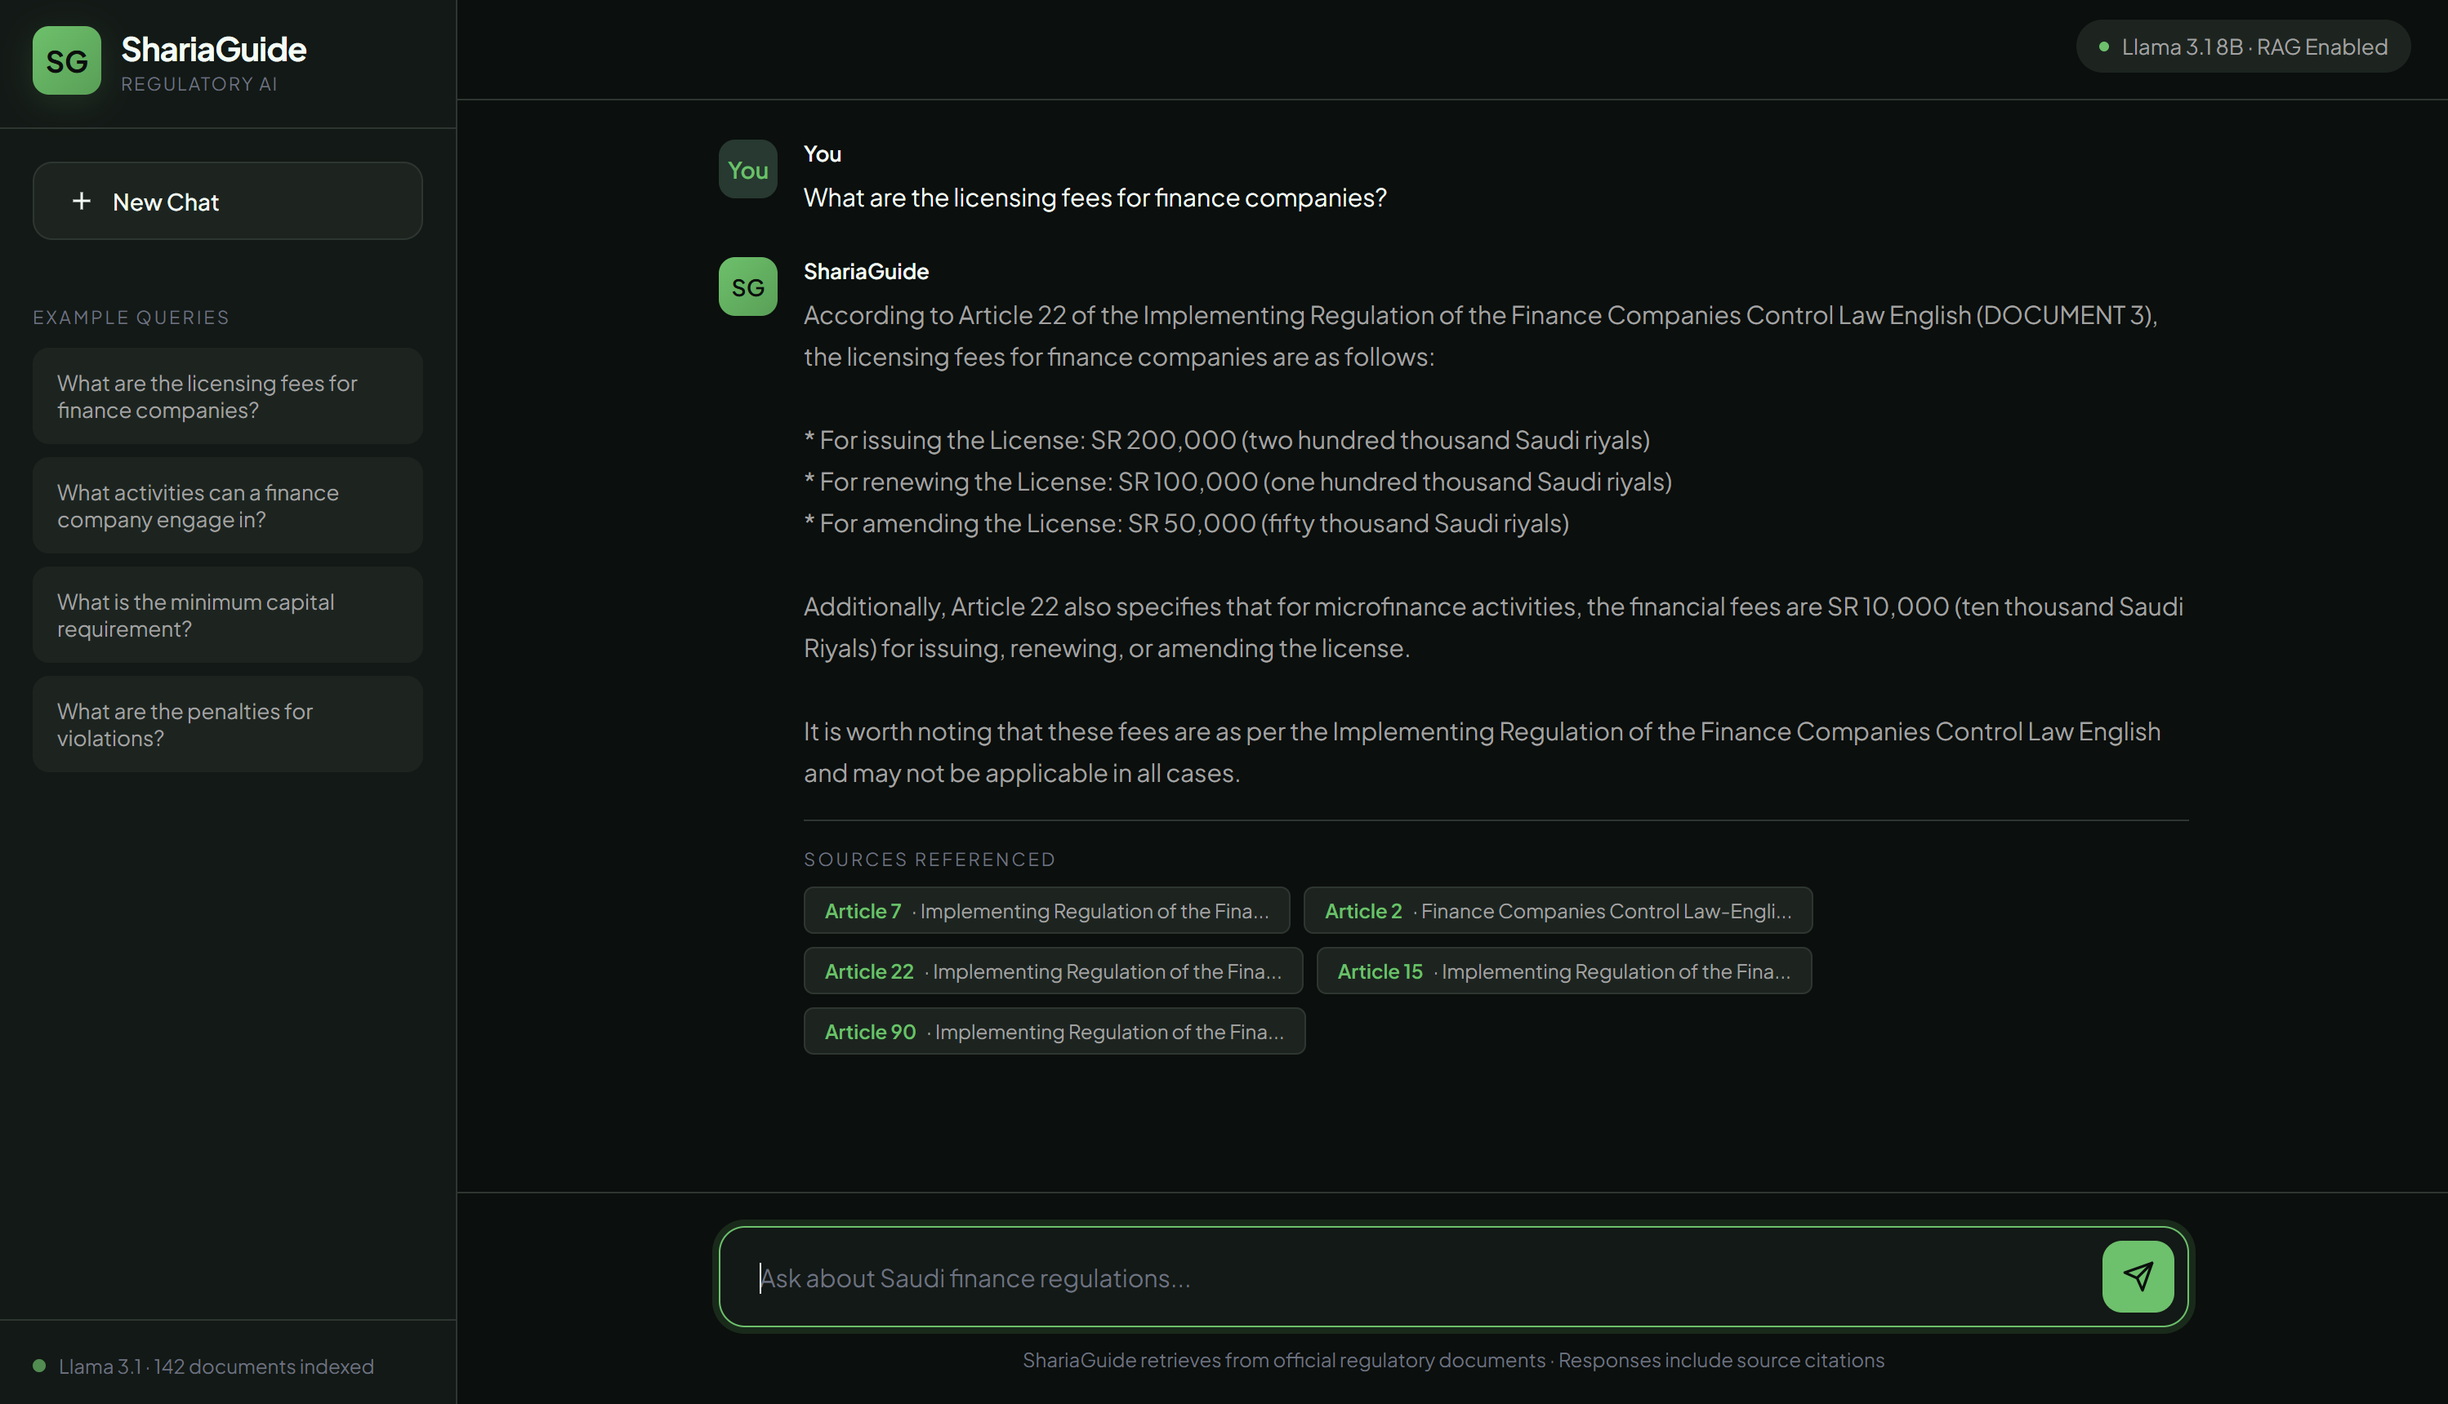
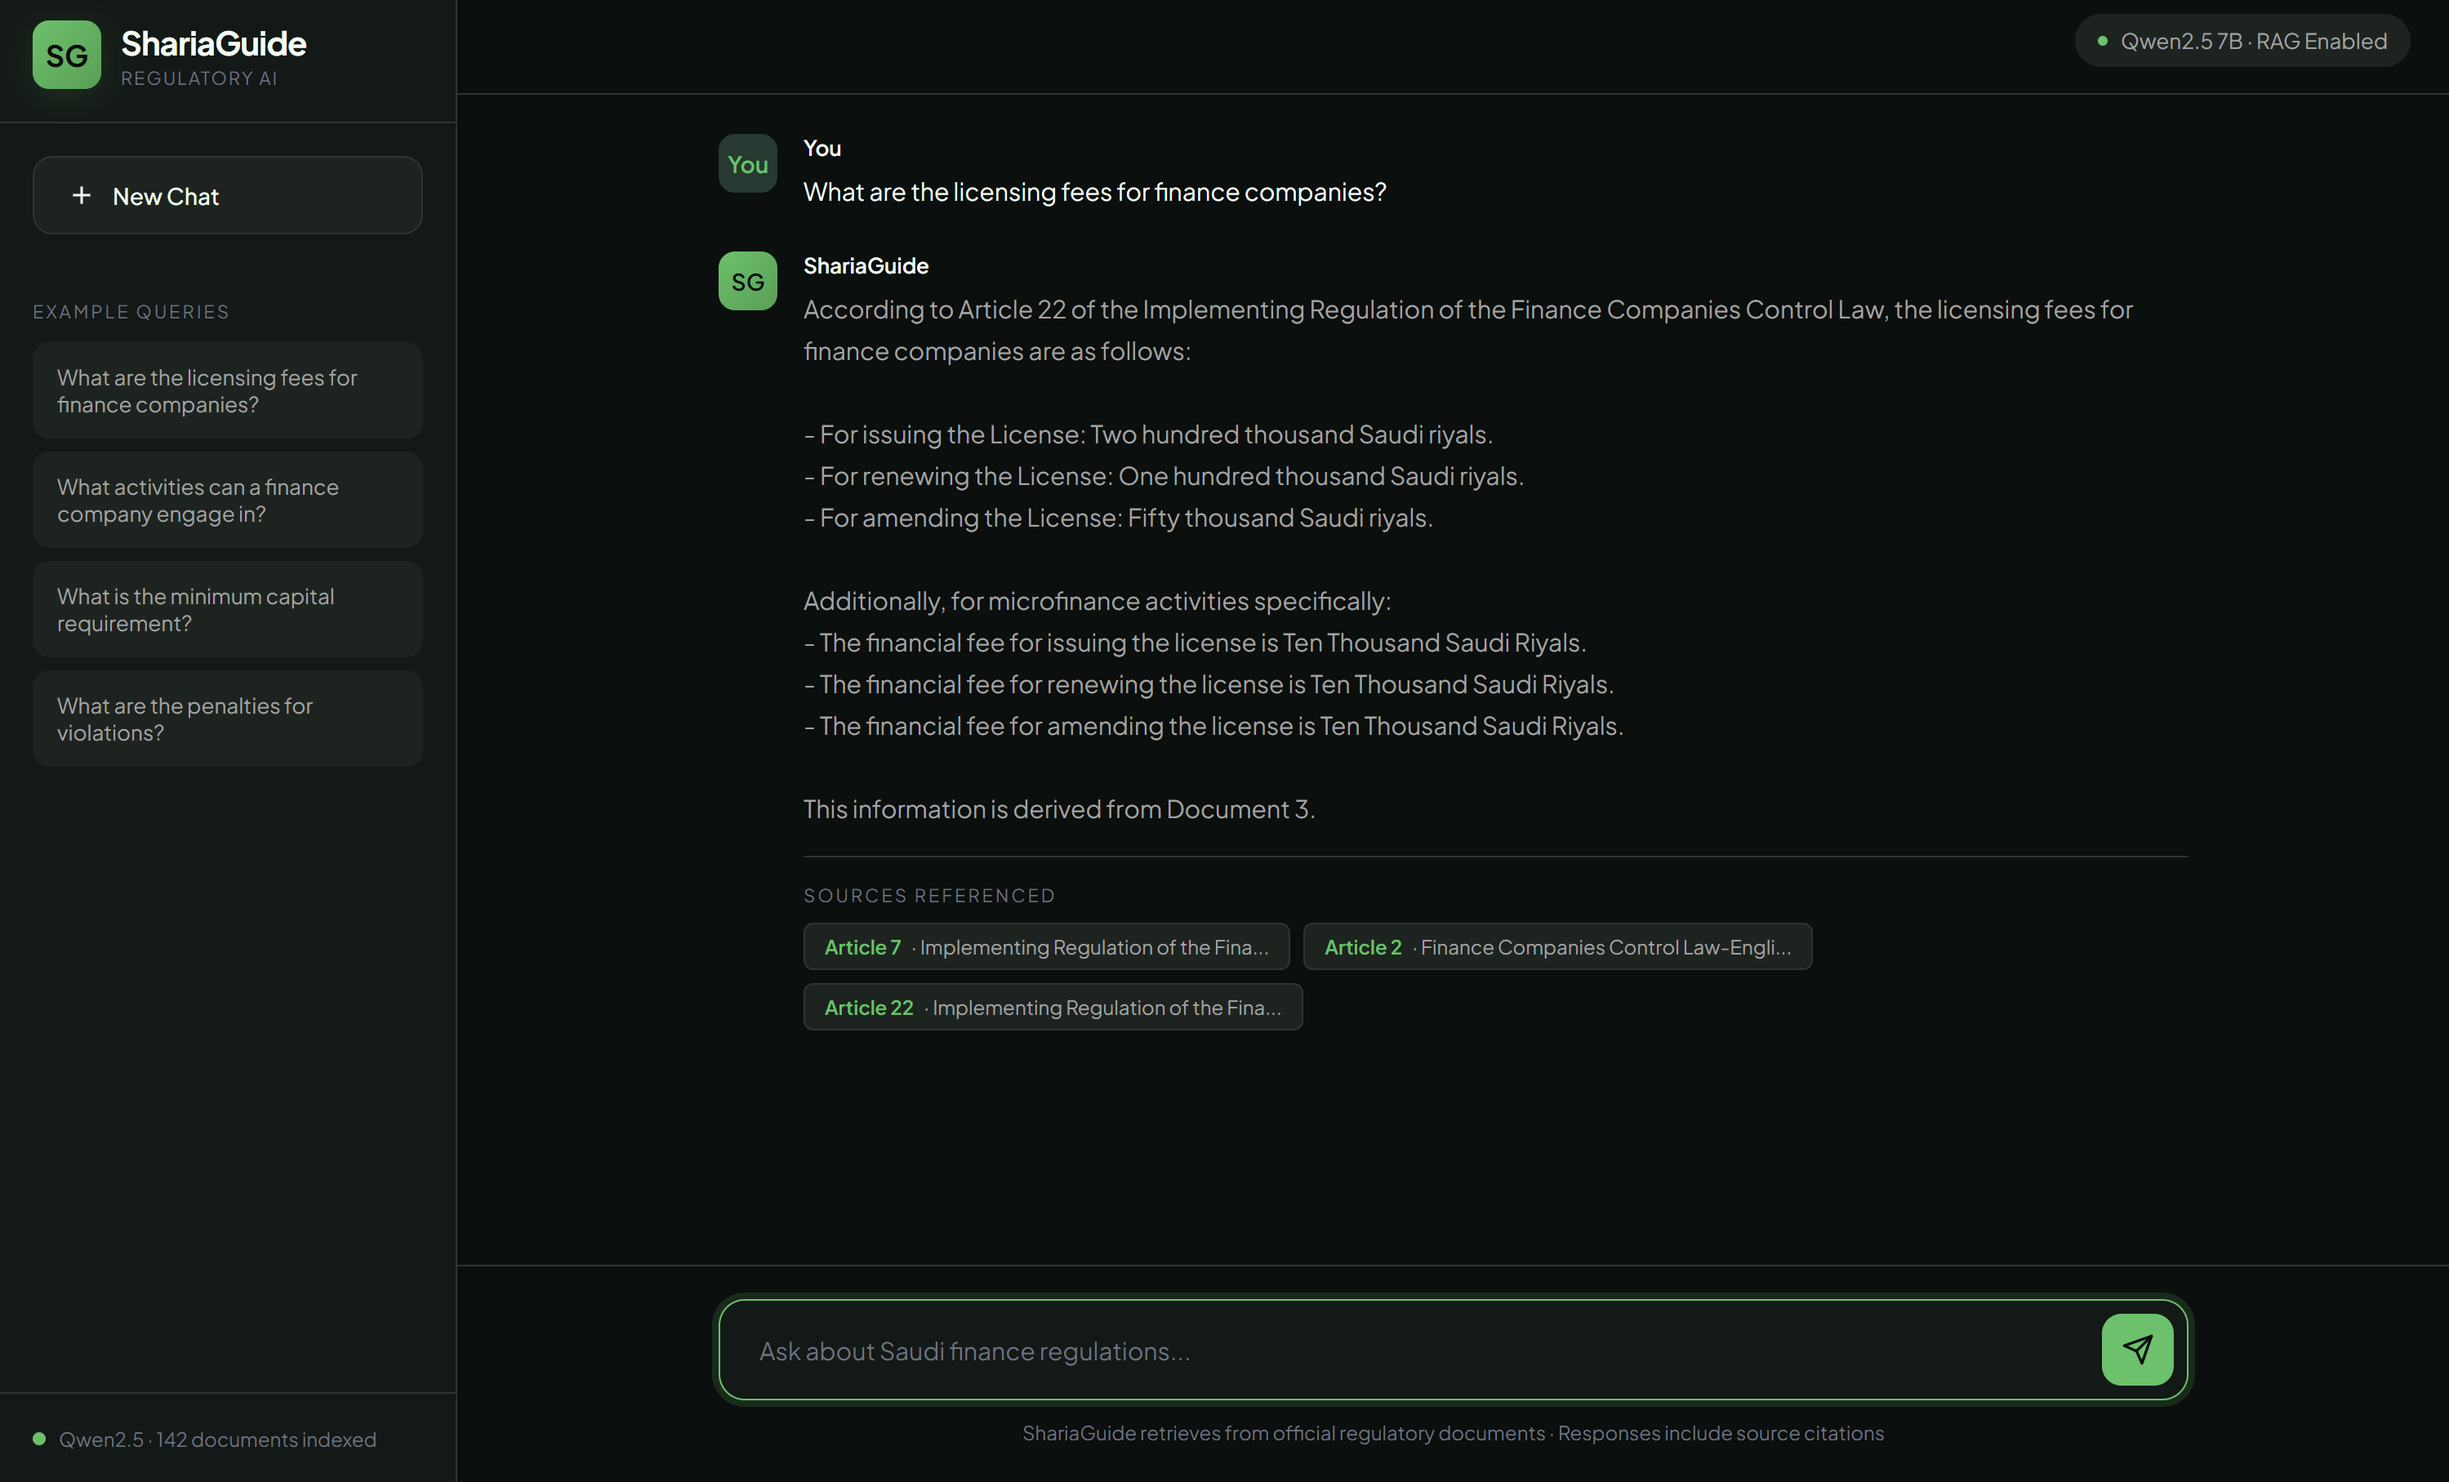
v1.2: Upgrade to Qwen 2.5 7B - 35% faster, better formatting

diff --git a/ShariaGuide.py b/ShariaGuide.py
@@ -39,7 +39,7 @@ class ShariaGuideRAG:
         self.client = chromadb.PersistentClient(path="./chroma_db")
         self.collection = self.client.get_collection("sharia_guide")
         self.ollama_url = "http://localhost:11434/api/generate"
-        self.model = "llama3.1"
+        self.model = "qwen2.5:7b"
         print(f"Ready! {self.collection.count()} documents indexed.")
     
     def retrieve(self, query, n_results=5):
@@ -751,7 +751,7 @@ HTML = '''
         <header class="chat-header">
             <div class="model-badge">
                 <span class="dot"></span>
-                <span>llama3.1 8B · RAG Enabled</span>
+                <span>Qwen2.5:7b · RAG Enabled</span>
             </div>
         </header>
 
@@ -811,7 +811,7 @@ HTML = '''
                 if (result.status === 'ready') {
                     isReady = true;
                     statusDot.classList.remove('loading');
-                    statusText.textContent = `Llama 3.1 · ${result.count} documents indexed`;
+                    statusText.textContent = `Qwen2.5 · ${result.count} documents indexed`;
                     userInput.disabled = false;
                     sendBtn.disabled = false;
                     initOverlay.classList.add('hidden');

diff --git a/README.md b/README.md
@@ -14,15 +14,28 @@ A Retrieval-Augmented Generation (RAG) system that provides accurate, citation-b
 
 | Version | Changes | Performance |
 |---------|---------|-------------|
-| **v1.1** (Current) | Optimized retrieval from 5 → 3 articles | **70s → 20s** (71% faster) |
+| **v1.2** (Current) | Upgraded to Qwen 2.5 7B model | **20s → 13s** (35% faster) |
+| v1.1 | Optimized retrieval from 5 → 3 articles | 70s → 20s (71% faster) |
 | v1.0 | Initial release | ~70s response time |
 
-### What's New in v1.1
+### What's New in v1.2
 
-- **Retrieval Optimization**: Reduced retrieved articles from 5 to 3
-- **Performance Boost**: Response time improved from ~70 seconds to ~20 seconds (71% faster)
-- **Same Accuracy**: Testing confirmed 3 articles provide complete answers without information loss
-- **Leaner Prompts**: Smaller context window = faster LLM processing
+- **Model Upgrade**: Switched from Llama 3.1 8B to Qwen 2.5 7B
+- **Faster Responses**: Query time reduced from ~20s to ~13s (35% improvement)
+- **Better Formatting**: Cleaner numbered lists and structured output
+- **Improved Citations**: More precise article references
+- **Cumulative Improvement**: From v1.0 to v1.2, response time improved by **81%** (70s → 13s)
+
+### Why Qwen 2.5 7B?
+
+After benchmarking multiple models (Llama 3.1, Mistral, Gemma 2, Qwen 2.5), Qwen 2.5 7B emerged as the best choice:
+
+| Model | Response Time | Accuracy | Formatting |
+|-------|---------------|----------|------------|
+| Llama 3.1 8B | 20s | ✅ Complete | Good |
+| Mistral 7B | 20s | ✅ Complete | Good |
+| Gemma 2 9B | 30s | ⚠ Missed details | Good |
+| **Qwen 2.5 7B** | **13s** | ✅ Complete | **Excellent** |
 
 ---
 
@@ -100,7 +113,7 @@ ShariaGuide is a **grounded AI assistant** that:
                           │
                           ▼
 ┌─────────────────────────────────────────────────────────────────┐
-│                     LOCAL LLM (Llama 3.1 8B)                    │
+│                   LOCAL LLM (Qwen 2.5 7B)                       │
 │            Generates answer from retrieved context              │
 └─────────────────────────┬───────────────────────────────────────┘
                           │
@@ -120,7 +133,7 @@ ShariaGuide is a **grounded AI assistant** that:
 | **PDF Processing** | PyMuPDF (fitz) |
 | **Embeddings** | Sentence-Transformers (all-MiniLM-L6-v2) |
 | **Vector Database** | ChromaDB |
-| **LLM** | Llama 3.1 8B via Ollama |
+| **LLM** | Qwen 2.5 7B via Ollama |
 | **Desktop UI** | PyWebView |
 | **Language** | Python 3.12+ |
 
@@ -128,13 +141,13 @@ ShariaGuide is a **grounded AI assistant** that:
 
 ## 📊 Performance
 
-| Metric | v1.0 | v1.1 |
-|--------|------|------|
-| Documents Indexed | 142 | 142 |
-| Articles Retrieved | 5 | **3** |
-| Average Query Time | ~70s | **~20s** |
-| Embedding Dimensions | 384 | 384 |
-| Model | Llama 3.1 8B | Llama 3.1 8B |
+| Metric | v1.0 | v1.1 | v1.2 |
+|--------|------|------|------|
+| Documents Indexed | 142 | 142 | 142 |
+| Articles Retrieved | 5 | 3 | 3 |
+| Average Query Time | ~70s | ~20s | **~13s** |
+| Model | Llama 3.1 8B | Llama 3.1 8B | **Qwen 2.5 7B** |
+| Output Quality | Good | Good | **Excellent** |
 
 ---
 
@@ -156,7 +169,7 @@ cd ShariaGuide
 pip install sentence-transformers chromadb pywebview requests pymupdf
 
 # Download the LLM
-ollama pull llama3.1
+ollama pull qwen2.5:7b
 
 # Run the application
 python ShariaGuide.py
@@ -210,7 +223,7 @@ This project is licensed under the MIT License - see the [LICENSE](LICENSE) file
 ## 🙏 Acknowledgments
 
 - Saudi Arabian Monetary Authority (SAMA) for regulatory documentation
-- Meta AI for Llama 3.1
+- Alibaba Cloud for Qwen 2.5
 - The open-source community for the incredible tools that made this possible
 
 ---
